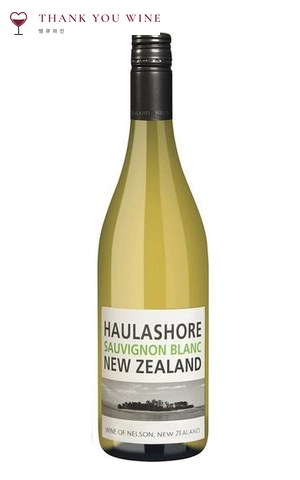
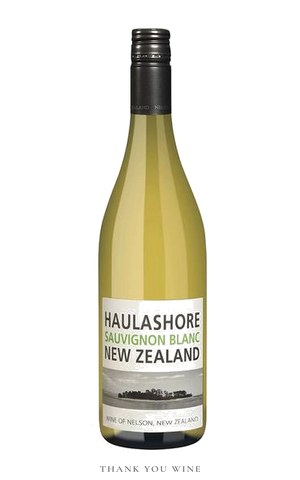
병 사진 로고를 에이와인처럼 병 밑 가운데 작은 회색 글자로 변경(도하), 9종 다시 생성, 라 피루엣뜨 고화질 사진 (#35)
Claude-Session: https://claude.ai/code/session_012cU88TskmTd7Di4gHVmdyx

diff --git a/wines/index.html b/wines/index.html
@@ -68,7 +68,7 @@
     <div class="wfind" role="search">
       <label class="wsearch"><span class="sr">와인 검색</span><input id="wq" type="search" placeholder="와인 이름, 품종, 지역으로 찾기 (예: 피노 누아, 보르도, Chablis)" autocomplete="off"></label>
       <div class="wsel">
-        <label><span class="sr">나라</span><select id="wcountry"><option value="">모든 나라</option><option value="프랑스">프랑스</option><option value="이탈리아">이탈리아</option><option value="스페인">스페인</option><option value="포르투갈">포르투갈</option><option value="칠레">칠레</option><option value="미국">미국</option><option value="독일">독일</option><option value="호주">호주</option><option value="뉴질랜드">뉴질랜드</option><option value="아르헨티나">아르헨티나</option><option value="몰도바">몰도바</option><option value="헝가리">헝가리</option><option value="오스트리아">오스트리아</option><option value="남아공">남아공</option><option value="그리스">그리스</option><option value="조지아">조지아</option></select></label>
+        <label><span class="sr">나라</span><select id="wcountry"><option value="">모든 나라</option><option value="프랑스">프랑스</option><option value="이탈리아">이탈리아</option><option value="스페인">스페인</option><option value="포르투갈">포르투갈</option><option value="칠레">칠레</option><option value="미국">미국</option><option value="독일">독일</option><option value="호주">호주</option><option value="뉴질랜드">뉴질랜드</option><option value="아르헨티나">아르헨티나</option><option value="몰도바">몰도바</option><option value="오스트리아">오스트리아</option><option value="헝가리">헝가리</option><option value="남아공">남아공</option><option value="조지아">조지아</option><option value="그리스">그리스</option></select></label>
         <label class="wnow"><input id="wnow" type="checkbox"> 지금 매장에 있는 와인만</label>
       </div>
       <div class="chips" id="wchips" role="group" aria-label="스타일"><button class="chip" type="button" data-style="" aria-pressed="true">전체</button><button class="chip" type="button" data-style="레드" aria-pressed="false">레드</button><button class="chip" type="button" data-style="화이트" aria-pressed="false">화이트</button><button class="chip" type="button" data-style="로제" aria-pressed="false">로제</button><button class="chip" type="button" data-style="스파클링" aria-pressed="false">스파클링</button><button class="chip" type="button" data-style="스위트" aria-pressed="false">스위트</button><button class="chip" type="button" data-style="포트·셰리" aria-pressed="false">포트·셰리</button><button class="chip" type="button" data-style="무알콜" aria-pressed="false">무알콜</button><button class="chip" type="button" data-style="기타" aria-pressed="false">기타</button></div>

diff --git a/tools/bottle_img.py b/tools/bottle_img.py
@@ -1,4 +1,4 @@
-"""병 사진 → 사이트용 300x480 흰 배경 jpg + 왼쪽 위 땡큐와인 로고(도하 11/25: 에이와인처럼 로고 넣기).
+"""병 사진 → 사이트용 300x480 흰 배경 jpg + 병 아래쪽 가운데 작은 땡큐와인 글자(도하 11/25: 에이와인처럼 밑에 작게).
 사용: python3 tools/bottle_img.py <원본 이미지> "<wines.json ko 이름>" [--erase x0,y0,x1,y1]
 --erase: 원본에서 지울 영역(다른 사이트 배지 등)을 흰색으로 덮음."""
 import sys,json,hashlib,os
@@ -6,10 +6,14 @@ from PIL import Image,ImageChops
 HERE=os.path.dirname(os.path.abspath(__file__)); ROOT=os.path.dirname(HERE)
 W,H=300,480
 def stamp():
-    lg=Image.open(os.path.join(ROOT,'assets/logo-wide.png')).convert('RGB')
-    bb=ImageChops.invert(lg.convert('L')).point(lambda v:255 if v>10 else 0).getbbox()
-    lg=lg.crop(bb); s=150/lg.width
-    return lg.resize((150,int(lg.height*s)),Image.LANCZOS)
+    """'THANK YOU WINE' 글자 마스크(에이와인처럼 병 밑 가운데 회색 작은 글자)"""
+    from PIL import ImageFilter
+    lg=Image.open(os.path.join(ROOT,'assets/logo-wide.png')).convert('L')
+    t=lg.crop((290,100,1100,175))
+    m=ImageChops.invert(t).point(lambda v:min(255,v*2))
+    m=m.crop(m.point(lambda v:255 if v>30 else 0).getbbox())
+    w=100; m=m.resize((w,max(1,int(m.height*w/m.width))),Image.LANCZOS)
+    return m
 def make(src,ko,erase=None):
     im=Image.open(src).convert('RGBA')
     a=im.split()[3]
@@ -21,9 +25,10 @@ def make(src,ko,erase=None):
     m=im.convert('L').point(lambda v:255 if v>=236 else 0); im.paste((255,255,255),mask=m)
     g=ImageChops.invert(im.convert('L')).point(lambda v:255 if v>18 else 0)
     b=im.crop(g.getbbox())
-    s=min(250/b.width,430/b.height); b=b.resize((max(1,int(b.width*s)),int(b.height*s)),Image.LANCZOS)
-    out=Image.new('RGB',(W,H),'white'); out.paste(b,((W-b.width)//2,H-b.height-18))
-    out.paste(stamp(),(10,12))
+    s=min(250/b.width,422/b.height); b=b.resize((max(1,int(b.width*s)),int(b.height*s)),Image.LANCZOS)
+    out=Image.new('RGB',(W,H),'white'); out.paste(b,((W-b.width)//2,H-b.height-30))
+    m=stamp(); x=(W-m.width)//2; y=H-8-m.height   # 맨 아래 가운데, 회색 작은 글자
+    out.paste((110,110,110),(x,y),m)
     fn='assets/wines/w'+hashlib.md5(ko.encode()).hexdigest()[:8]+'.jpg'
     out.save(os.path.join(ROOT,fn),quality=88)
     p=os.path.join(HERE,'wines.json'); w=json.load(open(p))
